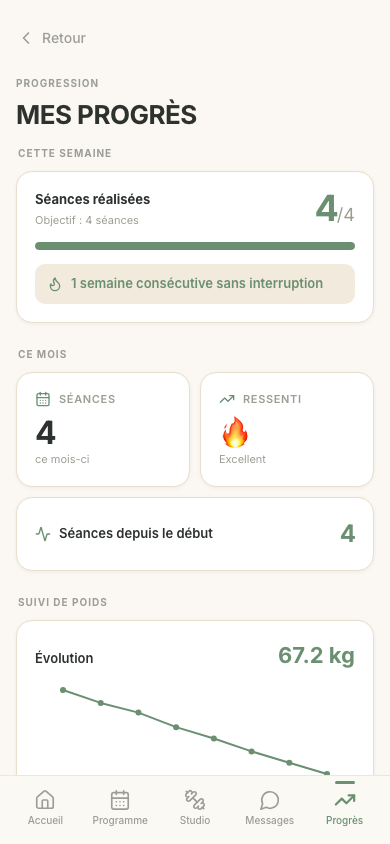
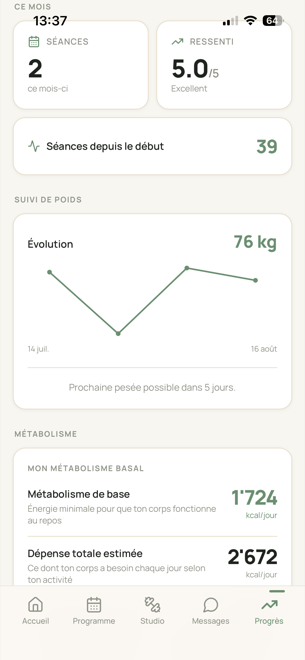
Update app mockups + expand hero slideshow to 8 mixed photos
- Replace "Vos séances du jour" and "Votre progression" app mockups
  with the latest in-app screenshots
- Add 5 new studio photos to the hero crossfade and shuffle the order
  with the existing 3 (8 total, optimized)

diff --git a/index.html b/index.html
@@ -1650,8 +1650,13 @@
   <header>
     <div class="hero">
       <img class="hero__bg is-active" src="hero-studio-4.jpg" alt="" aria-hidden="true">
+      <img class="hero__bg" src="hero-studio-7.jpg" alt="" aria-hidden="true">
       <img class="hero__bg" src="hero-studio-2.jpg" alt="" aria-hidden="true">
+      <img class="hero__bg" src="hero-studio-8.jpg" alt="" aria-hidden="true">
+      <img class="hero__bg" src="hero-studio-5.jpg" alt="" aria-hidden="true">
       <img class="hero__bg" src="ambiance-band.jpg" alt="" aria-hidden="true">
+      <img class="hero__bg" src="hero-studio-9.jpg" alt="" aria-hidden="true">
+      <img class="hero__bg" src="hero-studio-6.jpg" alt="" aria-hidden="true">
       <div class="hero__overlay" aria-hidden="true"></div>
 
       <div class="hero__content">
